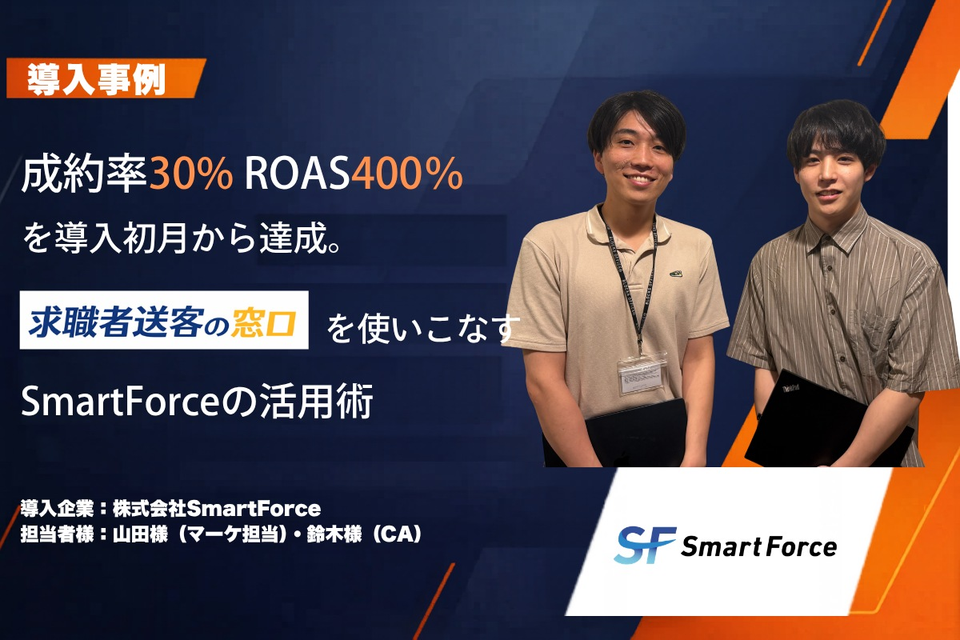
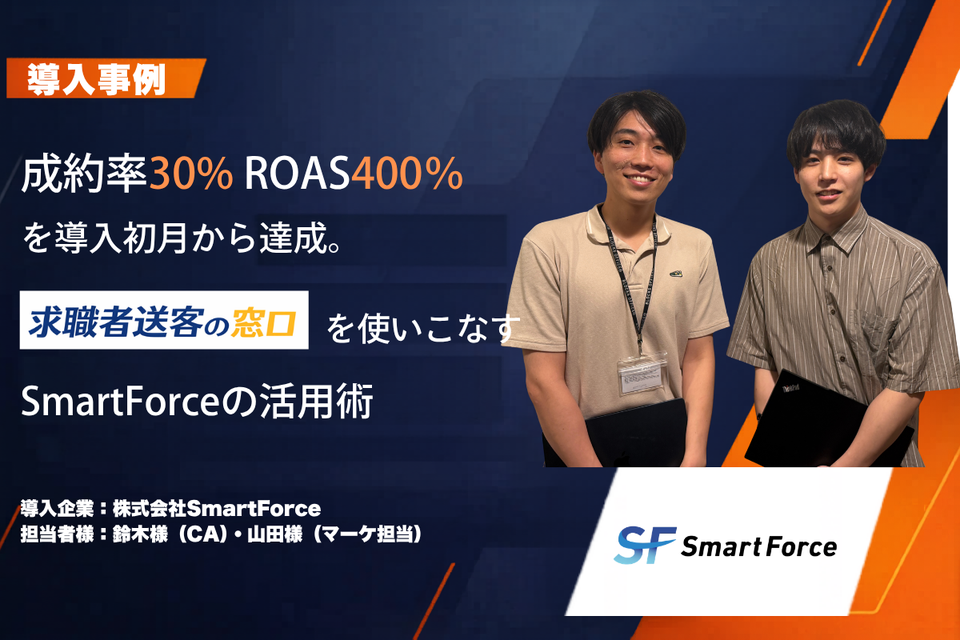
Update SmartForce hero image and name order

diff --git a/soukyaku-madoguchi/interview/smart-force.html b/soukyaku-madoguchi/interview/smart-force.html
@@ -164,7 +164,7 @@ height="0" width="0" style="display:none;visibility:hidden"></iframe></noscript>
       </div>
       <span class="iv-tag">導入事例 · CASE STUDY</span>
       <h1 class="iv-title"><span class="accent">成約率30%</span> <span class="accent">ROAS400%</span>を導入初月から達成。<br>求職者送客の窓口を使いこなす<span class="accent">SmartForceの活用術</span></h1>
-      <p class="iv-meta"><strong>導入企業：</strong>株式会社SmartForce　<strong>担当者様：</strong>山田 様（マーケ担当）・鈴木 様（CA）</p>
+      <p class="iv-meta"><strong>導入企業：</strong>株式会社SmartForce　<strong>担当者様：</strong>鈴木 様（CA）・山田 様（マーケ担当）</p>
       <div class="iv-hero-img">
         <img src="../images/interviews/smartforce-hero.jpg" alt="株式会社Smart Force 導入事例 成約率30%・ROAS 400%を達成 求職者送客の窓口で高い成約率を出すコツとは">
       </div>
